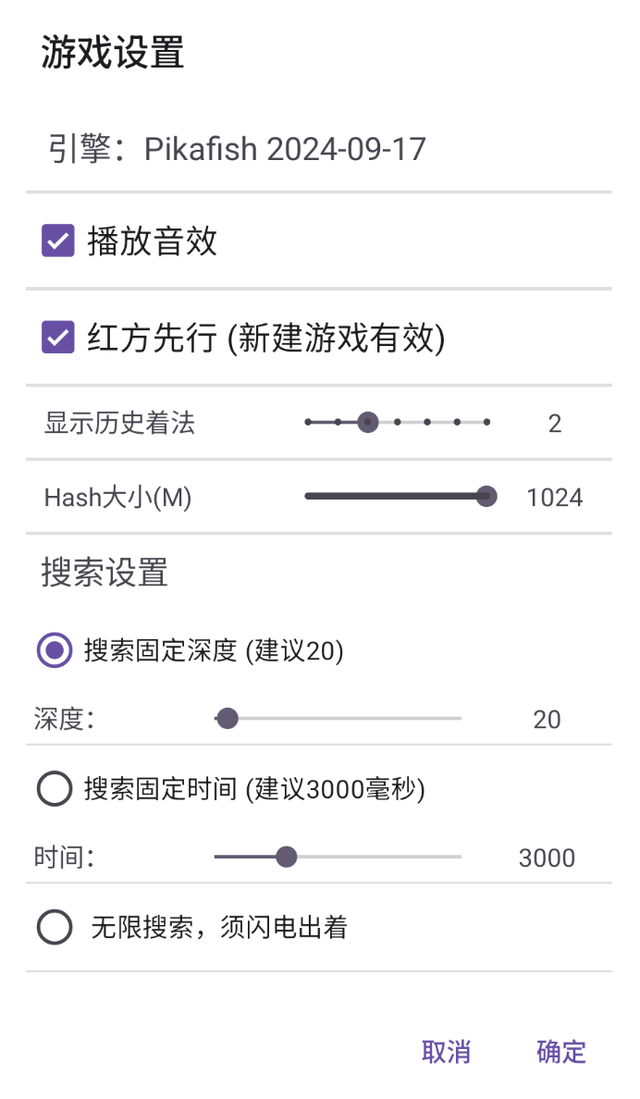
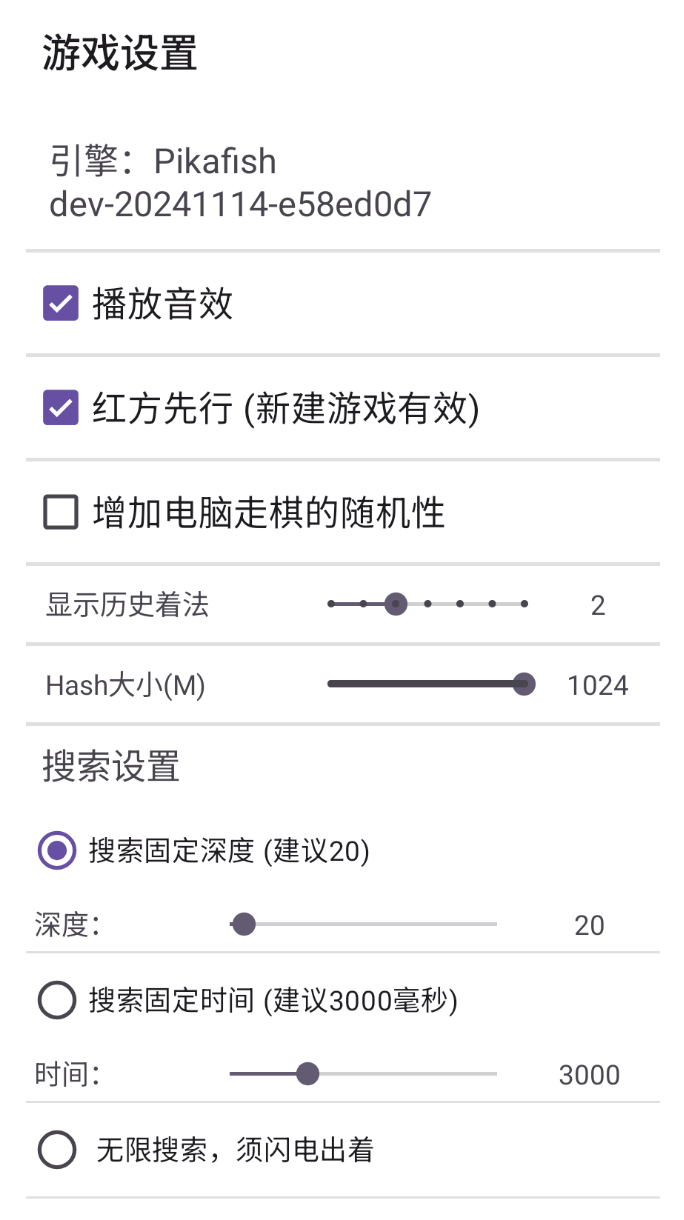
update docs for setting

diff --git a/docs/help.html b/docs/help.html
@@ -20,7 +20,7 @@
 <h3>1. 工具栏介绍</h3>
 
 <div class="imgbox">
-    <a href="images/interface.jpeg"><img class="center-fit" src='images/interface.jpeg' style="max-width: 350px"></a>
+    <a href="images/interface.jpeg"><img class="center-fit" src='images/interface.jpeg' style="max-width: 300px"></a>
 </div>
 
 
@@ -35,7 +35,6 @@
 
 </ui>
 
-<br>
 
 <h3>2. 寻求帮助的结果</h3>
 
@@ -45,34 +44,50 @@
 
 
 <div class="imgbox">
-    <a href="images/multipv.jpg"><img class="center-fit" src='images/multipv.jpg' style="max-width: 350px"></a>
+    <a href="images/multipv.jpg"><img class="center-fit" src='images/multipv.jpg' style="max-width: 300px"></a>
 </div>
 
 <br>
 
-<b>此时可以直接点击状态提示栏的数字，选择着法。</b>
+此时可以直接点击状态提示栏的数字，选择着法。
 <br>
-<b>也可以忽略提示的着法，在棋盘上随意出着</b>
+也可以忽略提示的着法，在棋盘上直接出着
 
 <hr>
 
 <h3>3. 设置界面</h3>
 
 <div class="imgbox">
-    <a href="images/multipv.png"><img class="center-fit" src='images/settings.png' style="max-width: 350px"></a>
+    <a href="images/multipv.png"><img class="center-fit" src='images/settings.png' style="max-width: 300px"></a>
 </div>
 
-<h4>支持红方先行或黑方先行</h4>
+<h4>3.1 支持红方先行或黑方先行</h4>
 
 <ui>
   <li>缺省为红方先行</li>
-  <li>取消去选后，为黑方先行；如果设置了电脑执黑且自动走棋，则黑方在开局后会自动走棋</li>
+  <li>取消勾选后，为黑方先行；如果设置了电脑执黑且自动走棋，则黑方在开局后会自动走棋</li>
   <li>只针对新建游戏有效</li>
 </ui>
 
-<h3>4. 引擎搜索设置</h3>
 
-<h4>支持三种模式的引擎搜索方法：</h4>
+<h4>3.2 增加电脑走棋的随机性</h4>
+
+<ui>
+  <li>缺省不勾选</li>
+  <li>勾选后，电脑会在几个可能的着法之间随机选择一个，增加随机性，但是同时会降低电脑的棋力</li>
+  <li>这个功能的目的，是避免电脑每次都走一样的着法，跟电脑对弈会无聊</li>
+</ui>
+
+<h4>3.4 Hash大小</h4>
+
+<ui>
+  <li>缺省为256M</li>
+  <li>越大越好，但是大了程序可能会崩溃</li>
+</ui>
+
+<h4>3.5 引擎搜索设置</h4>
+
+<h5>支持三种模式的引擎搜索方法：</h5>
 
 <ui>
   <li>设定搜索深度：引擎在搜索固定深度后自动返回。如果设置的数值太高，会需要较长时间的搜索。</li>
@@ -82,16 +97,15 @@
 
 <hr>
 
-<h3>5. 常见问题</h3>
+<h3>4. 常见问题</h3>
 
-<h4>5.1 引擎下棋的速度太慢了，该怎么办？</h4>
+<h4>4.1 引擎下棋的速度太慢了，该怎么办？</h4>
 
-这时候，需要调整引擎搜索，降低搜索的深度，或者设置更短的固定搜索时间。
+这时候，需要调整引擎搜索方法，降低搜索的深度，或者设置更短的固定搜索时间，再或者更换更好的手机...
 
-<h4>5.2 发现程序的bug该怎么办？</h4>
+<h4>4.2 发现程序的bug该怎么办？</h4>
 
 将棋盘的FEN导出，然后在github上创建个issue. 如果不会上述操作，那...
-
 
     </section>
 

diff --git a/app/src/main/java/com/zfdang/chess/Settings.kt b/app/src/main/java/com/zfdang/chess/Settings.kt
@@ -47,7 +47,7 @@ class Settings(private val context: Context) {
         go_time_value = getInt(go_time_value_key, 3000)
         go_infinite = getBoolean(go_infinite_key, false)
         red_go_first =  getBoolean(red_go_first_key, true)
-        hash_size = getInt(hash_size_key, 512)
+        hash_size = getInt(hash_size_key, 256)
         random_move = getBoolean(random_move_key, false)
     }
 
